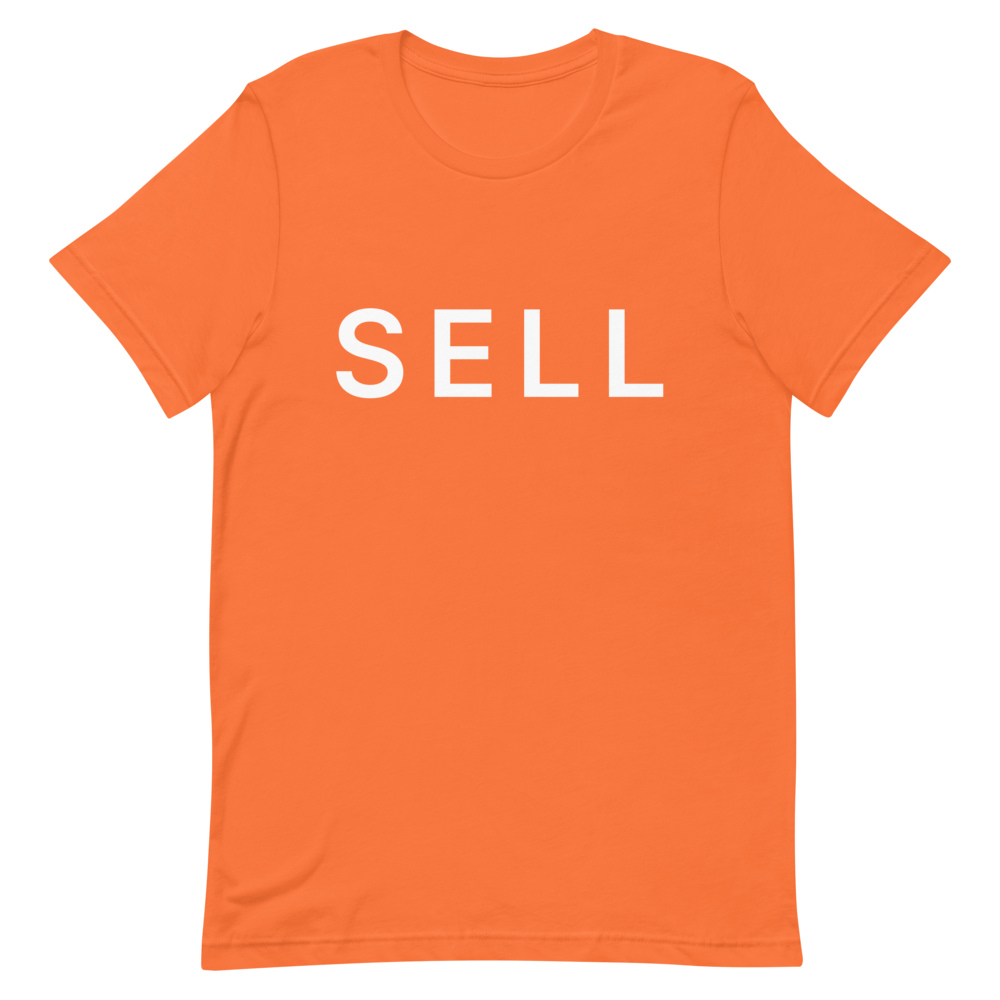
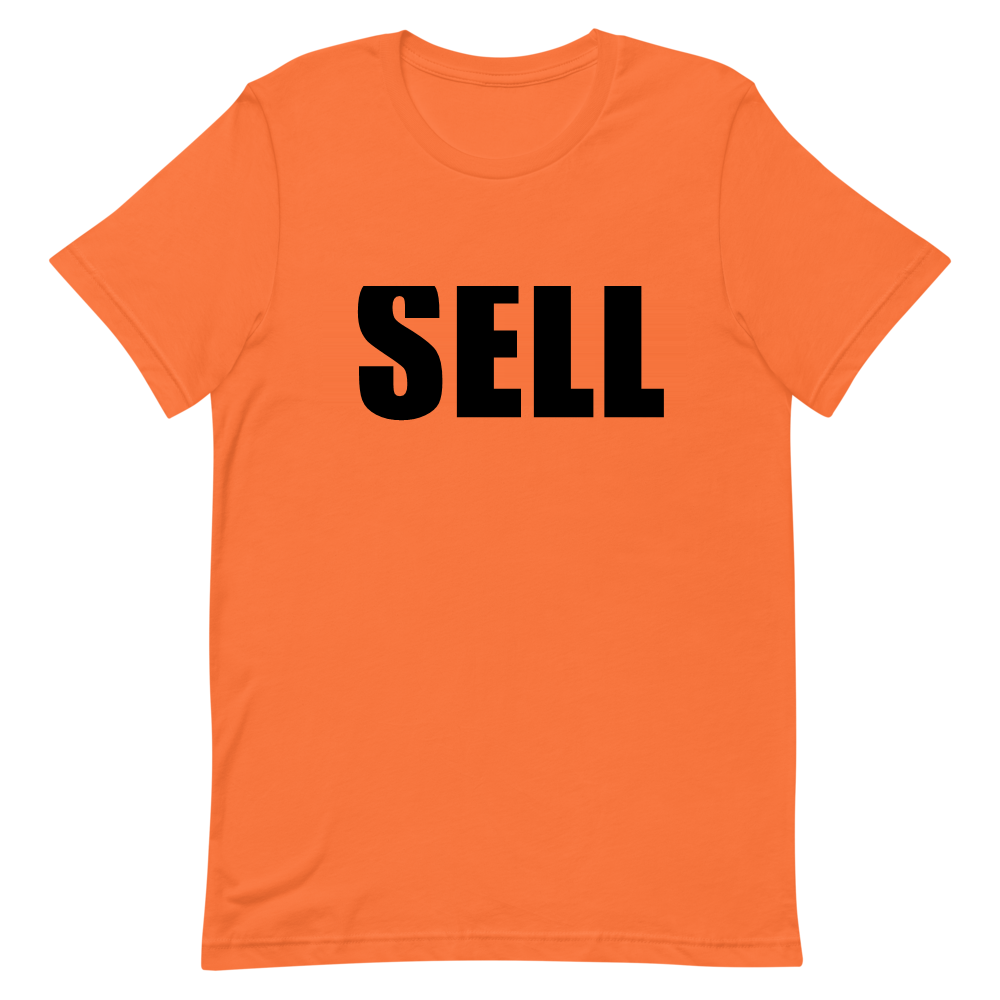
Use black Impact lettering for Bengals shirt

Changed region(s): [[0.341, 0.279, 0.682, 0.434]]

diff --git a/app/api/print/[slug]/route.ts b/app/api/print/[slug]/route.ts
@@ -1,9 +1,16 @@
+import { readFile } from "node:fs/promises";
+import { join } from "node:path";
 import { printFile } from "@/lib/print";
 import { getTeam } from "@/lib/teams";
 
 // Tee print file: /api/print/<slug>.png
 export async function GET(_req: Request, { params }: { params: Promise<{ slug: string }> }) {
-  const team = getTeam((await params).slug.replace(/\.png$/, ""));
+  const slug = (await params).slug.replace(/\\.png$/, "");
+  const team = getTeam(slug);
   if (!team) return new Response("Not found", { status: 404 });
+  if (slug === "nfl-cincinnati") {
+    const png = await readFile(join(process.cwd(), "public", "print", "bengals-impact-black.png"));
+    return new Response(png, { headers: { "Content-Type": "image/png", "Cache-Control": "public, max-age=31536000, immutable" } });
+  }
   return printFile("tee");
 }

diff --git a/components/ProductPage.tsx b/components/ProductPage.tsx
@@ -73,7 +73,7 @@ export default function ProductPage({ slug, style }: { slug: string; style: Styl
   const related = [...sameCity, ...TEAMS.filter((t) => t.division === team.division && t.market !== team.market)].slice(0, 4);
   if (!stylesFor(team).includes(style)) notFound();
   const noun = STYLE[style].label.toLowerCase();
-  const printColor = PRINT_COLOR[style];
+  const printColor = team.slug === "nfl-cincinnati" && style === "tee" ? "black" : PRINT_COLOR[style];
   const printInk = printColor === "black" ? "#000000" : STYLE[style].ink;
 
   return (

diff --git a/lib/art.ts b/lib/art.ts
@@ -1,4 +1,4 @@
 // Bump when the shirt artwork or photos change: Printful caches print files by
 // URL and next/image caches optimized photos by URL, so a new number makes
 // both fetch fresh copies.
-export const ART_VERSION = 11;
+export const ART_VERSION = 12;
